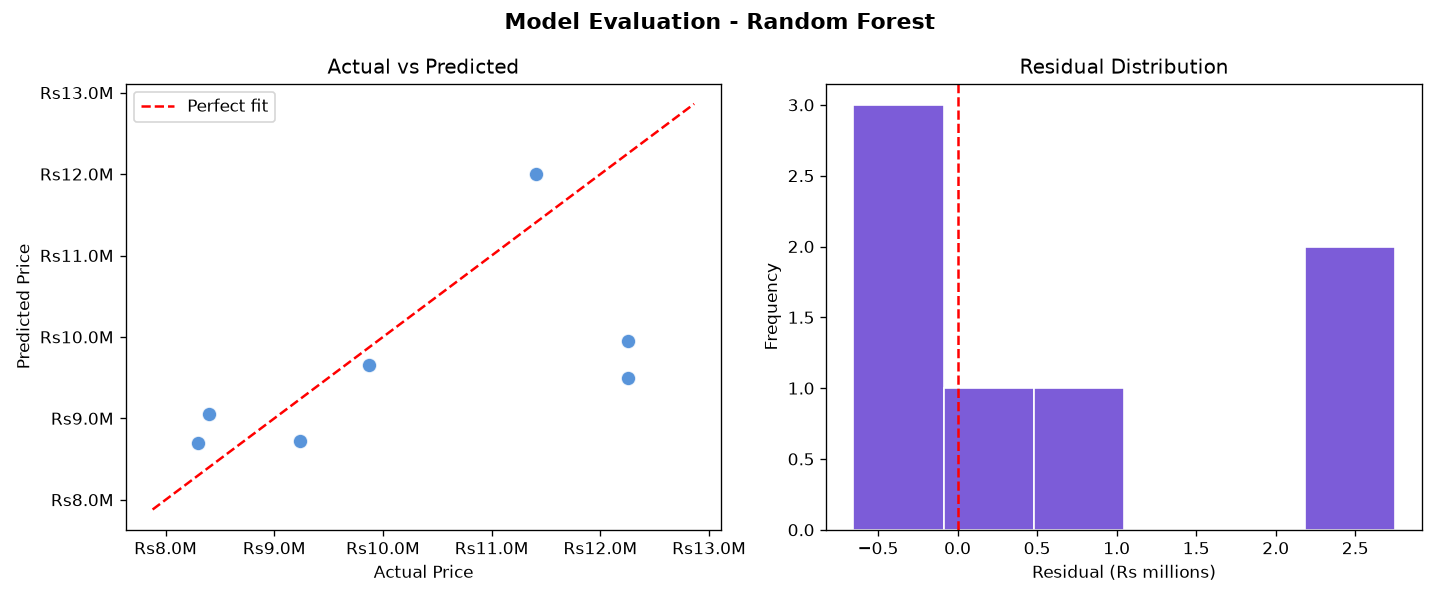
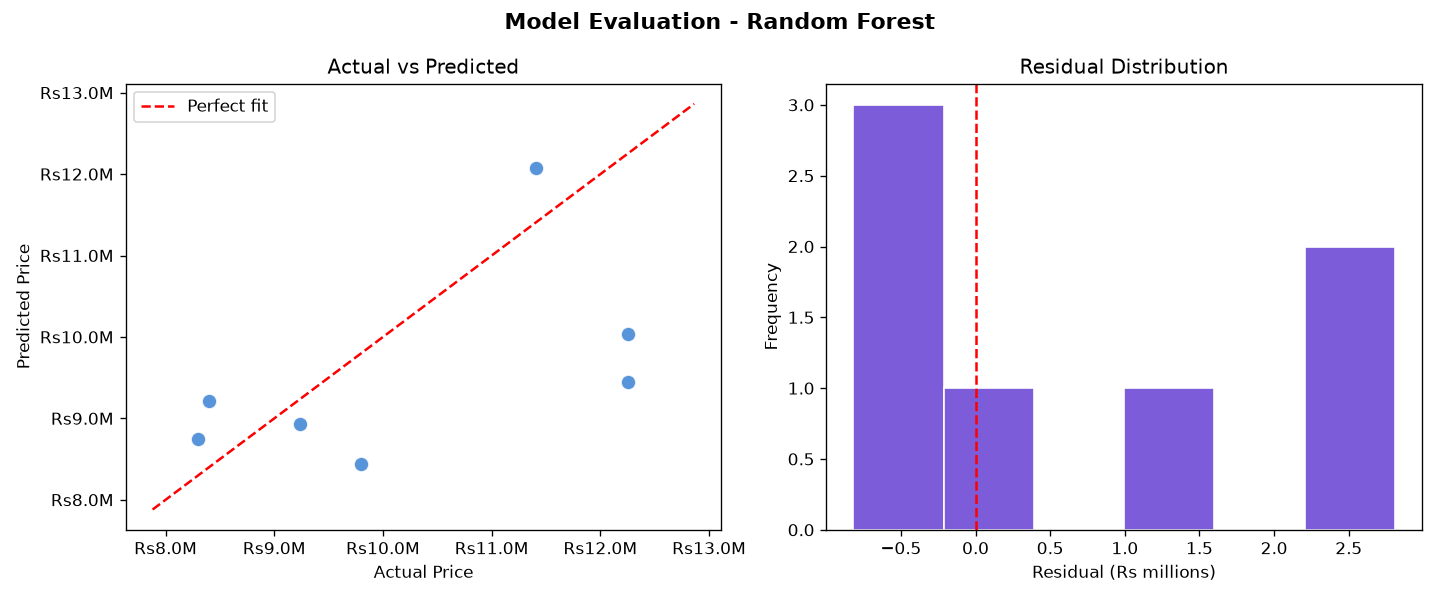
feat: remove 5-bedroom option — drop rows from CSV, filter selectbox, retrain model

diff --git a/first-project/house-price-app/app.py b/first-project/house-price-app/app.py
@@ -108,7 +108,7 @@ with st.sidebar:
 
     bedrooms = st.selectbox(
         "🛏 Bedrooms",
-        options=sorted(df["bedrooms"].unique().tolist()),
+        options=sorted([b for b in df["bedrooms"].unique().tolist() if b != 5]),
         index=1,
         help="Number of bedrooms",
     )
